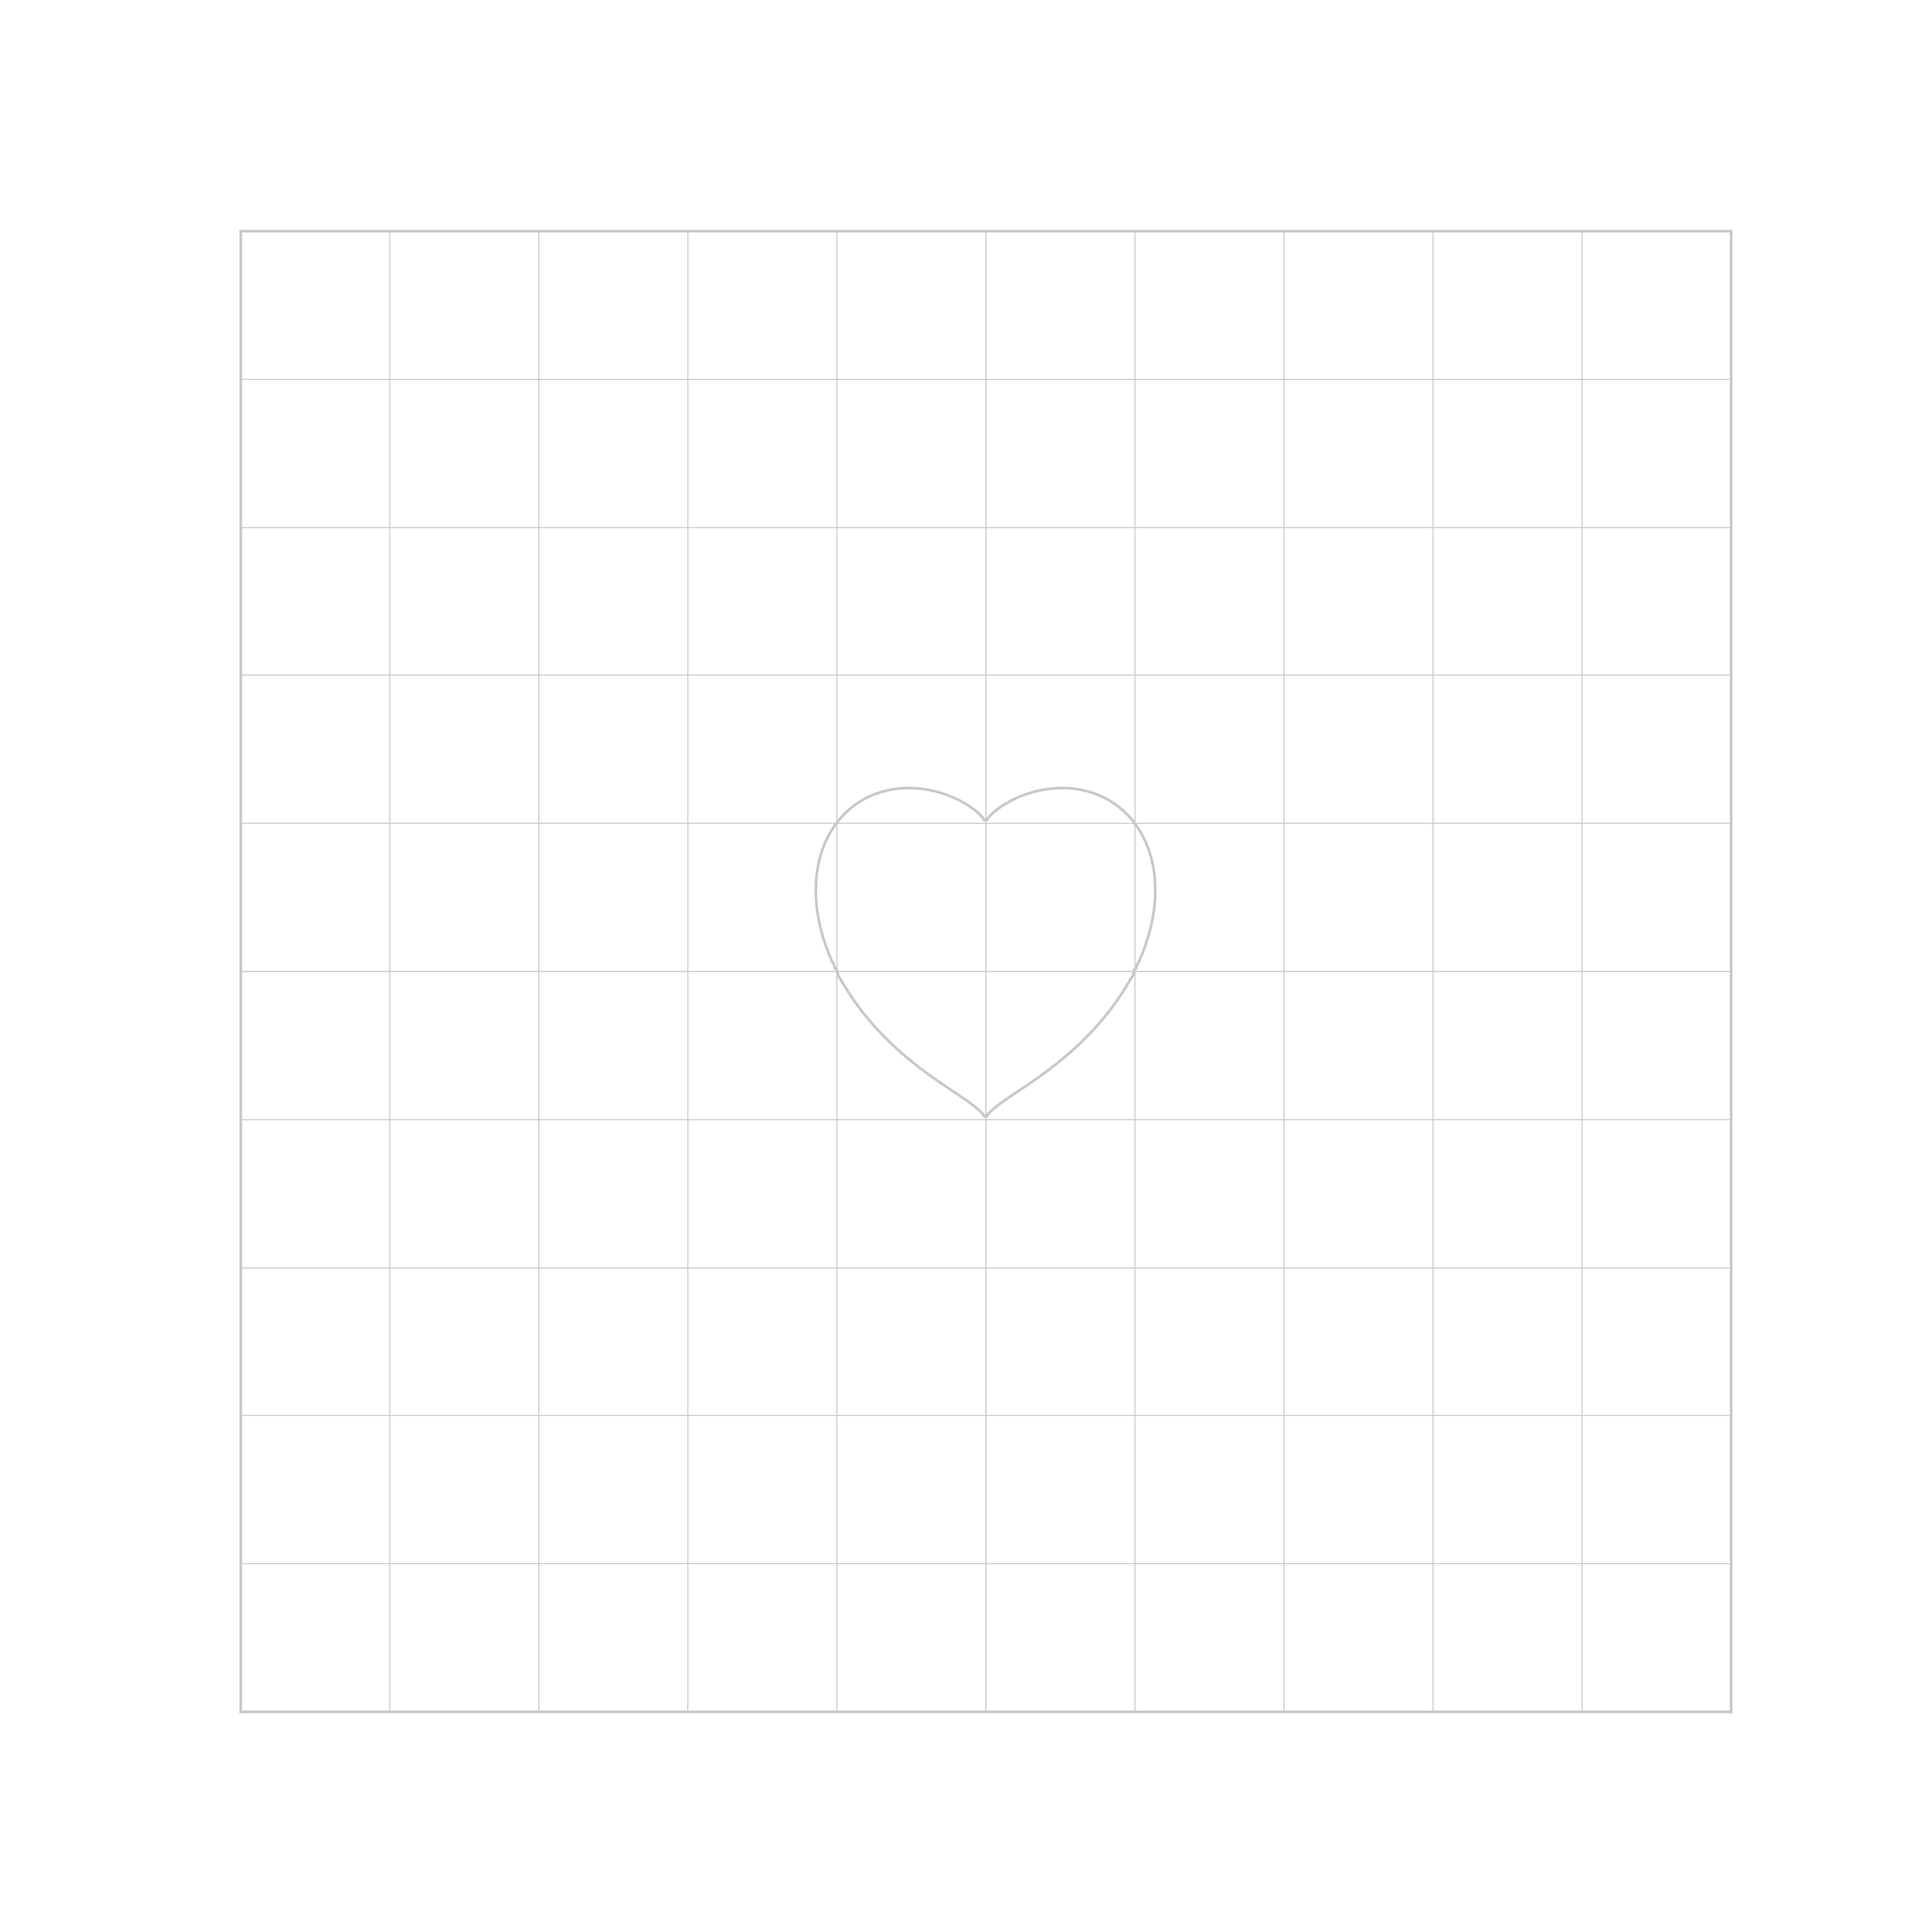
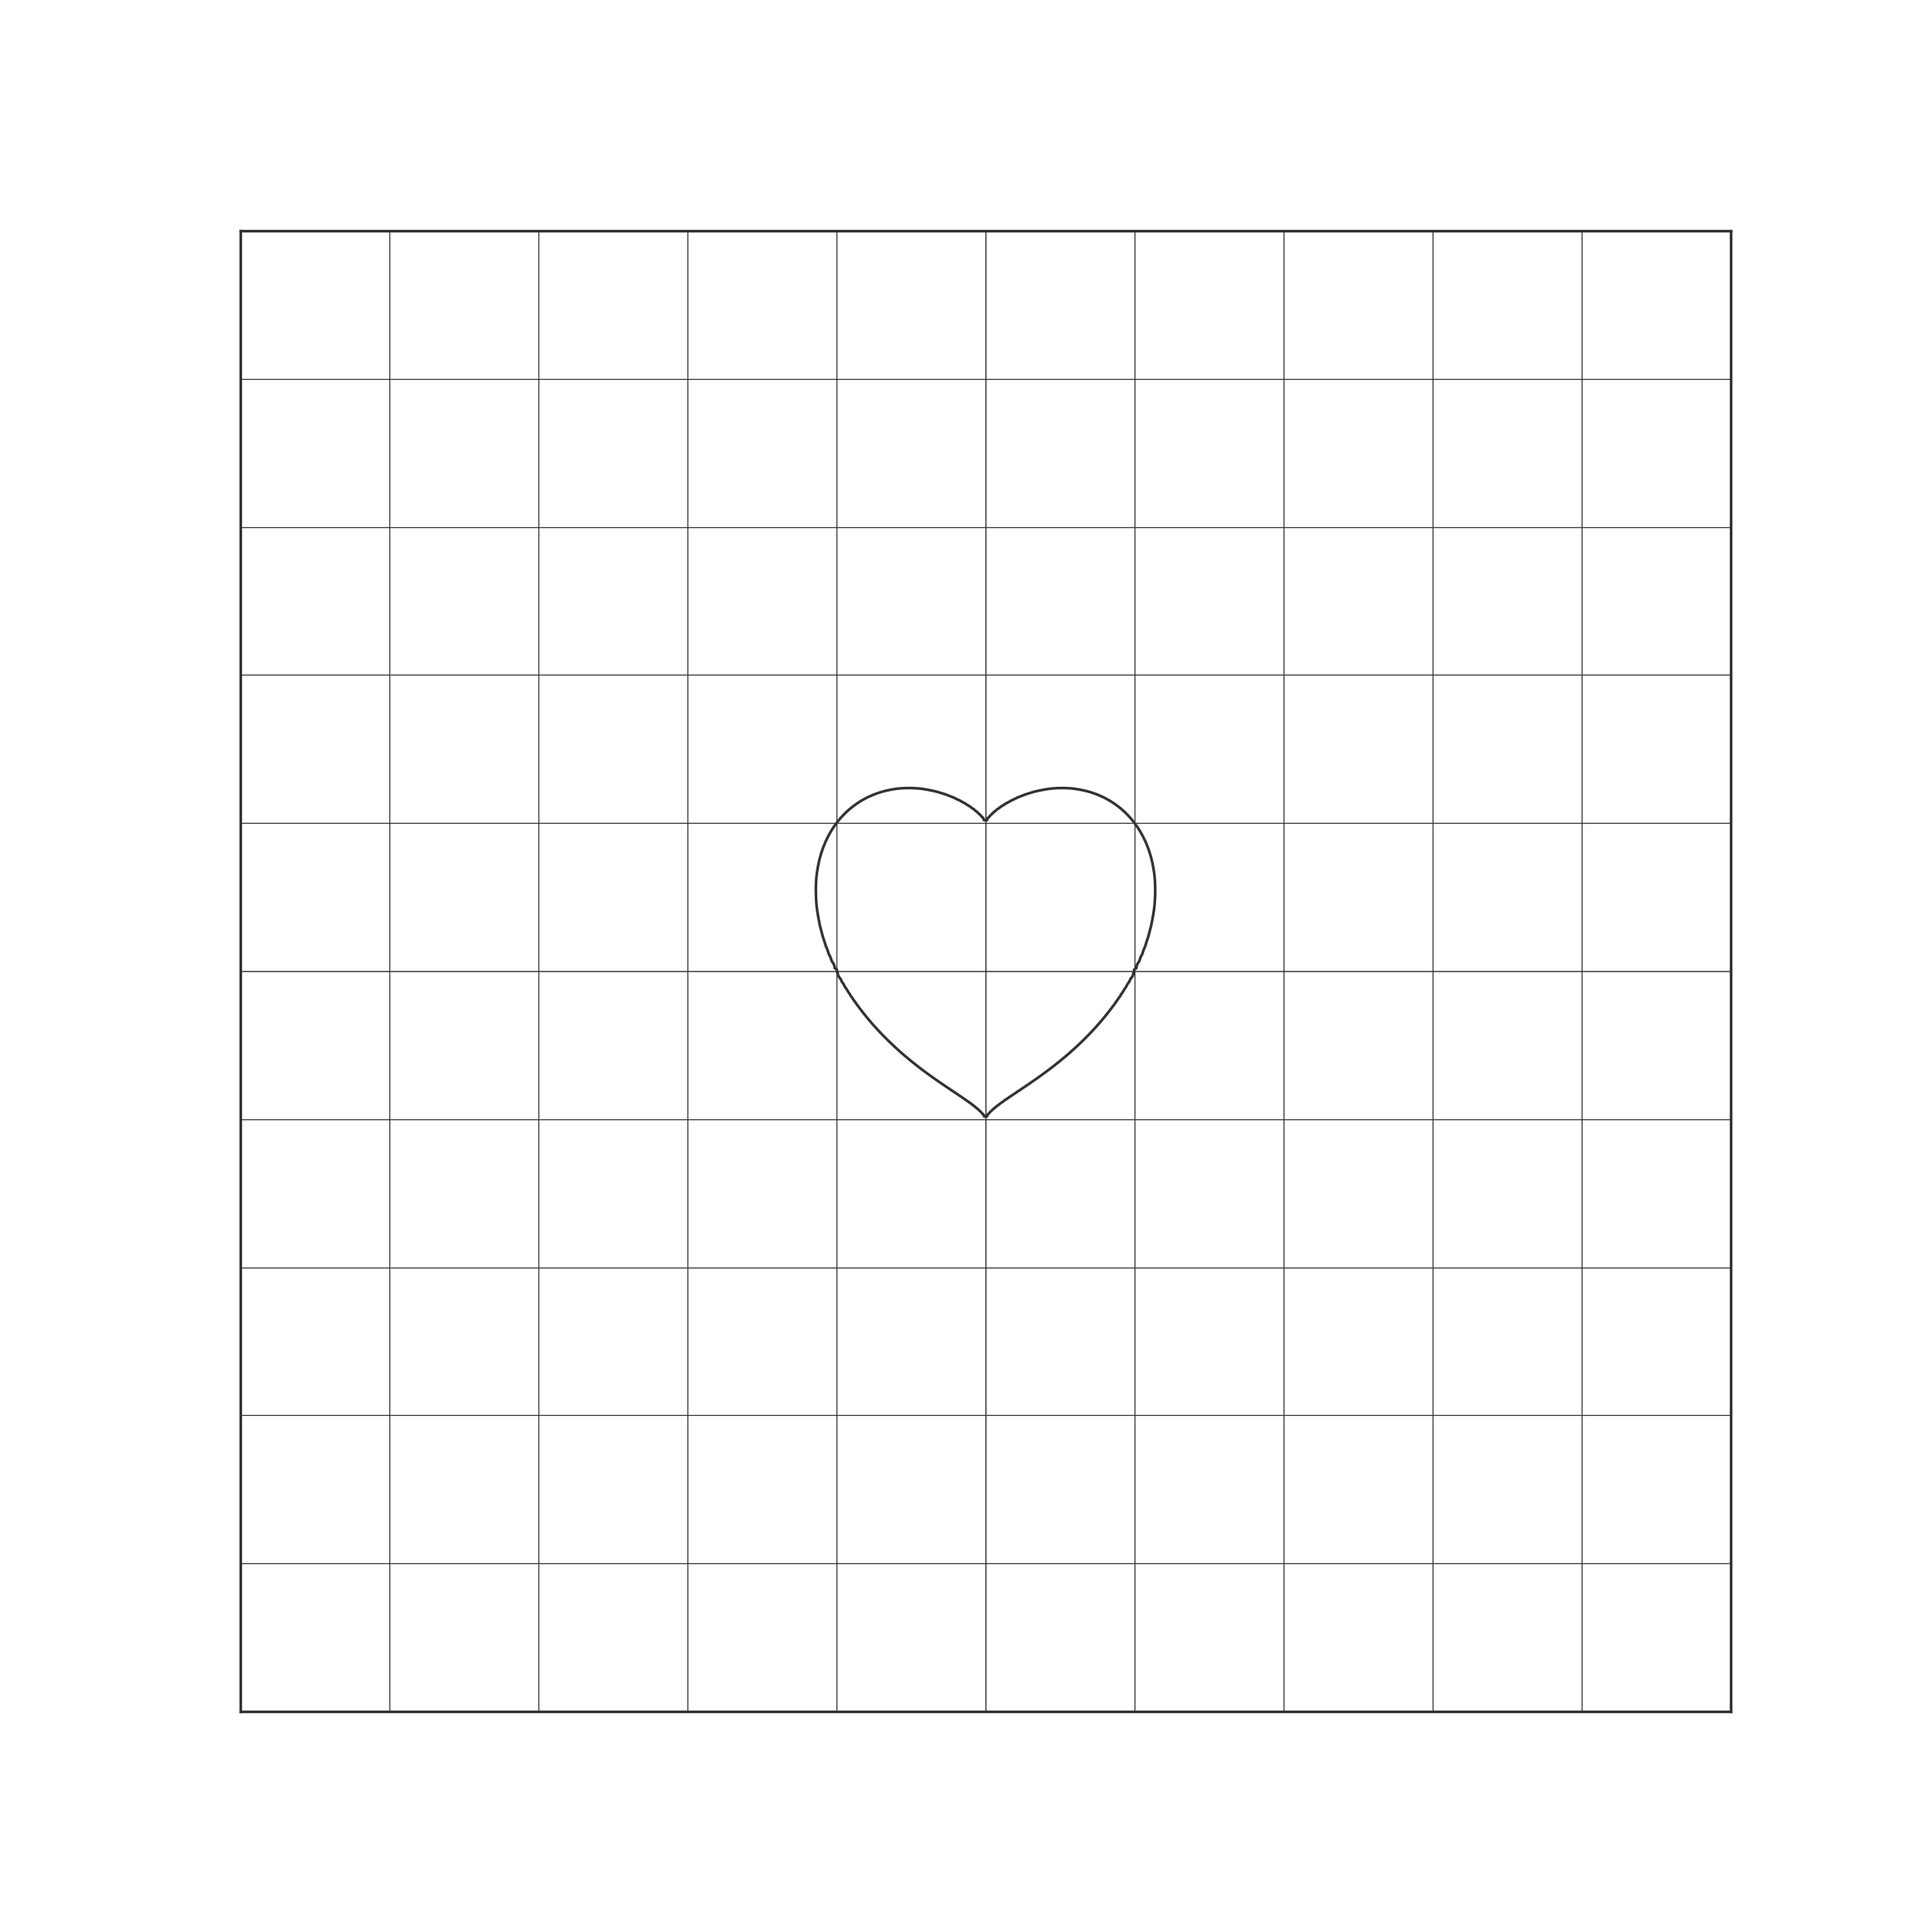
edits

Changed region(s): [[0.5625, 0.5, 0.5938, 0.5312], [0.5, 0.5625, 0.5312, 0.5938], [0.5, 0.4062, 0.5312, 0.4375]]

diff --git a/Heart_Graph.py b/Heart_Graph.py
@@ -16,7 +16,7 @@ def plot_implicit_function(xlim=(-scale, scale), ylim=(-scale, scale), resolutio
     plt.figure(figsize=(8, 8))
     
     # Define color in RGB format
-    col = 200
+    col = 50
     light_gray = (col/255, col/255, col/255)
     grid_linewidth = 0.3
     
